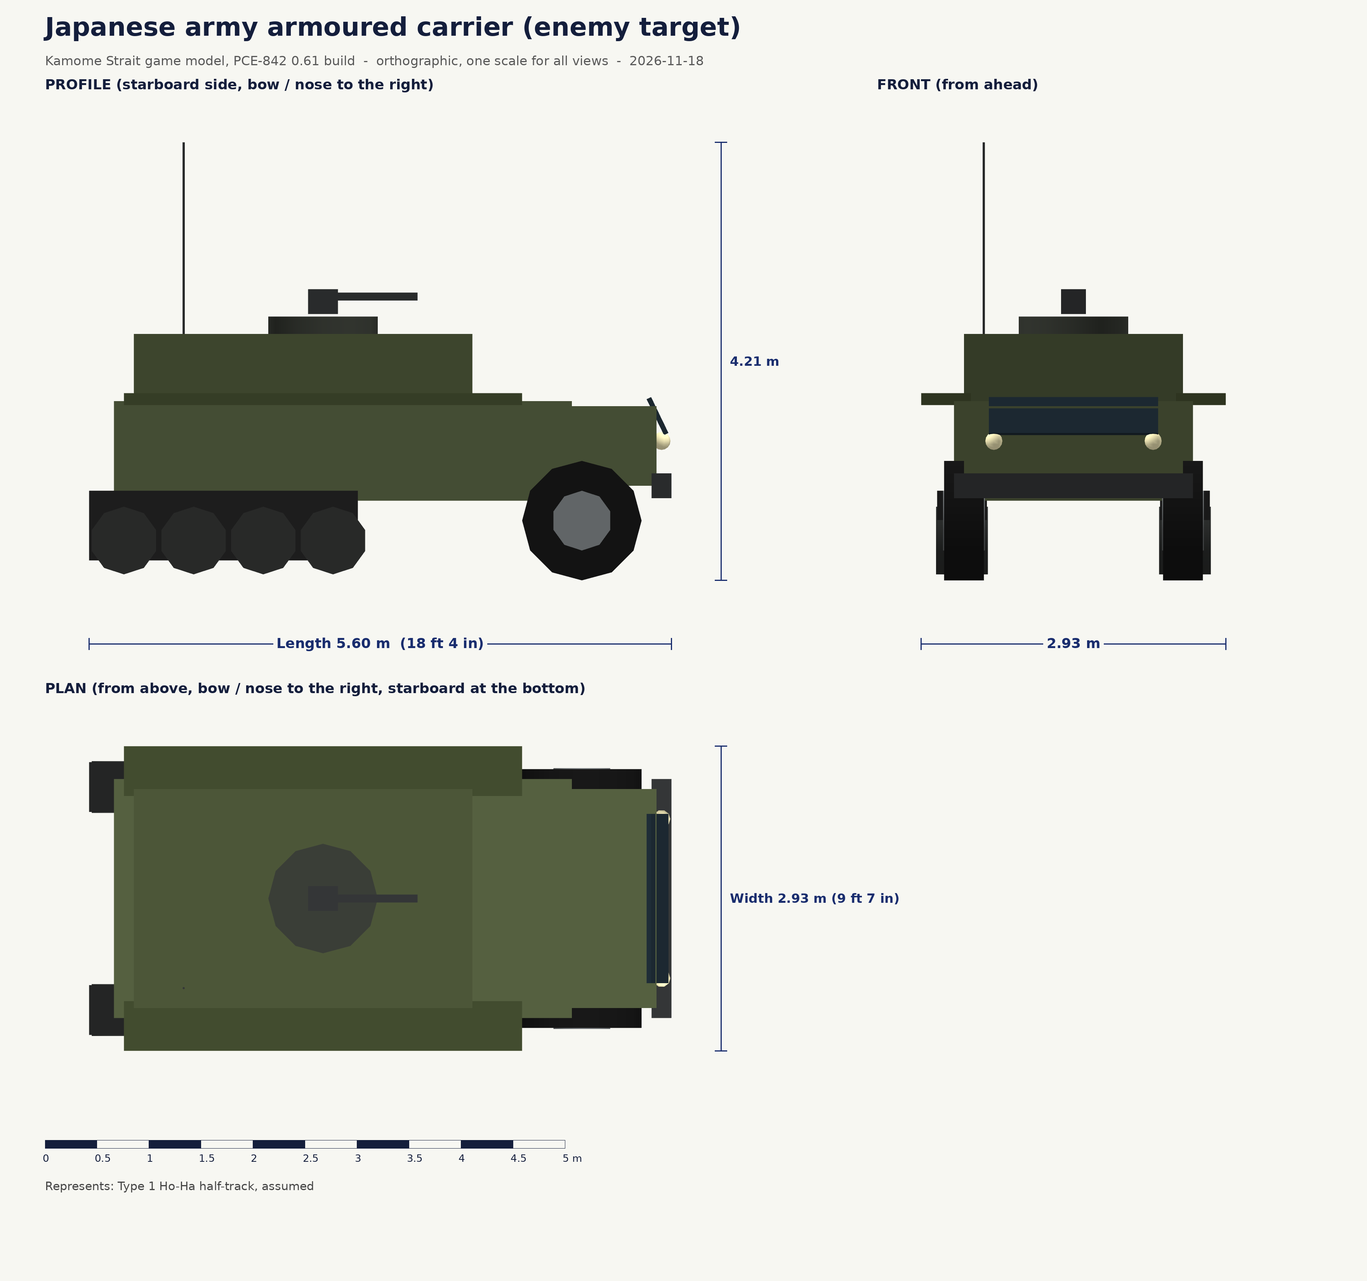
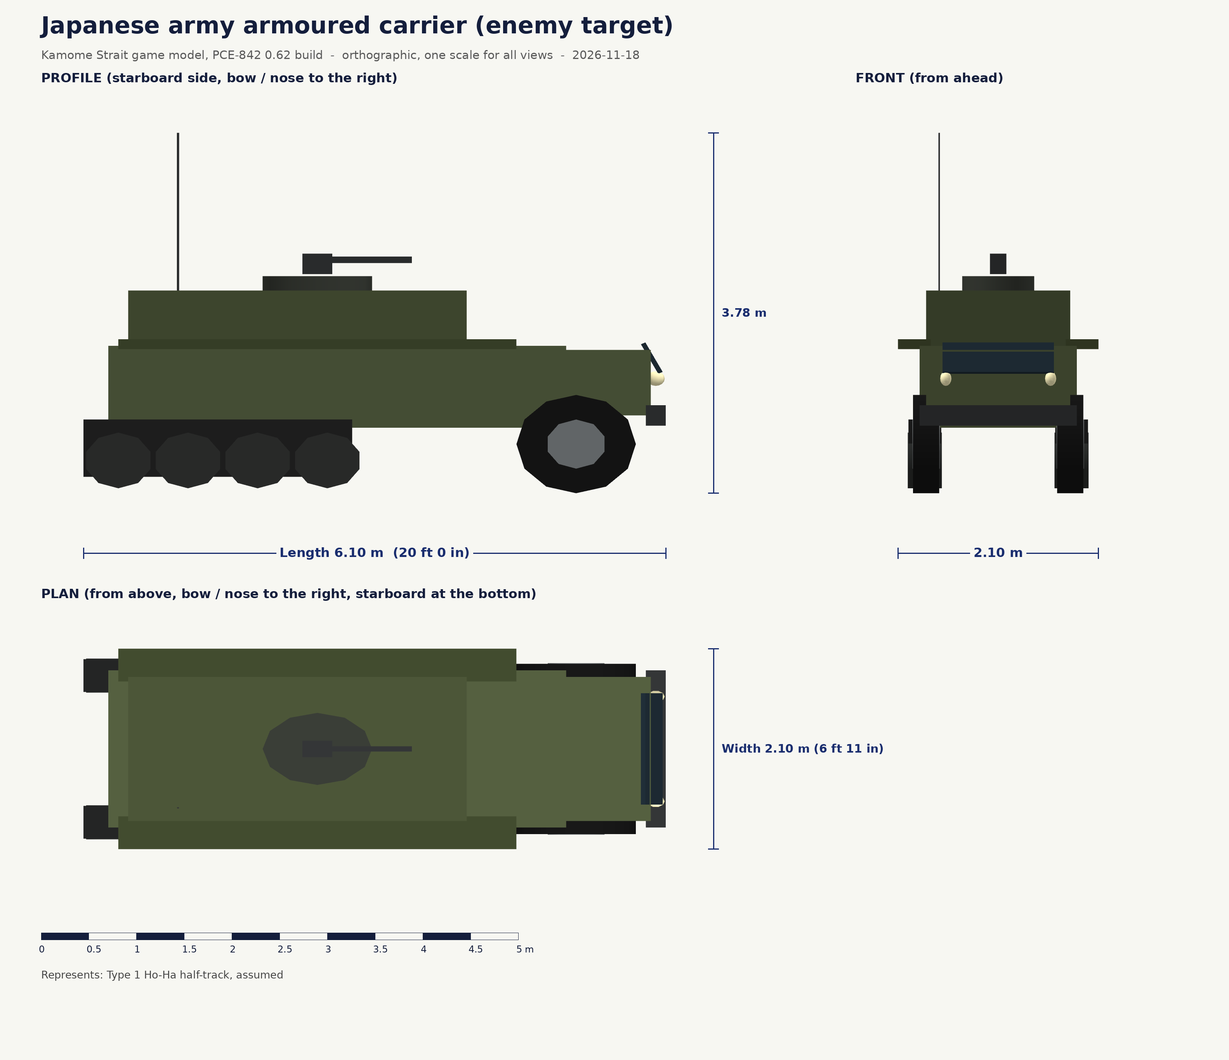
P-51 5.44, PCE-842 0.62: Japanese ships float on their waterline; enemy vehicles at real size (Type 94, Kurogane, Ho-Ha, Ha-Go); blueprints redrawn
Claude-Session: https://claude.ai/code/session_01GqtnZ4hJG1DYCEV5dDsXBs

diff --git a/src/shared/end-of-the-coast-batteries.js b/src/shared/end-of-the-coast-batteries.js
@@ -15,18 +15,20 @@ const SITES = [],
       const g = new GX.Acc().add(P, GX.xf(0, 0, 0, 0)).geometry();
       g.computeBoundingBox();
       const b = g.boundingBox,
-        s1 = b.max.y - b.min.y;
-      g.translate(0, -b.min.y - s1 / 2, 0); /* base at the model's own zero, the mesh origin in the middle (as the other targets) */
+        s1 = b.max.y - b.min.y,
+        k0 = b.min.y; /* read before translate(), which recomputes the box in place */
+      g.translate(0, -k0 - s1 / 2, 0); /* base at the model's own zero, the mesh origin in the middle (as the other targets) */
       g.computeBoundingSphere();
-      return [new THREE.Mesh(g, new THREE.MeshLambertMaterial({ vertexColors: true })), s1];
+      return [new THREE.Mesh(g, new THREE.MeshLambertMaterial({ vertexColors: true })), s1, k0 /* the model's lowest point (a ship: her keel, below her waterline at 0) */];
     },
     target = (P, type, hp, r, u, d, ry, yOff) => {
-      const [m, s1] = asMesh(P),
+      const [m, s1, k0] = asMesh(P),
         [x, z] = FR.w(u, d);
-      m.position.set(x, H(x, z) + s1 / 2 + (yOff || 0), z);
+      /* a ship floats with her own waterline (the model's y = 0) at the sea's design waterline; anything else stands on the ground */
+      m.position.set(x, type === 'ship' ? SEA.WL + k0 + s1 / 2 : H(x, z) + s1 / 2 + (yOff || 0), z);
       m.rotation.y = ry;
       scene.add(m);
-      const e = { m, lit: null, c: m.position, r, hp, hp0: hp, type, dead: false, s1, col: 0x555555, kind: 'st' };
+      const e = { m, lit: null, c: m.position, r, hp, hp0: hp, type, dead: false, s1, k0, col: 0x555555, kind: 'st' };
       T.push(e);
       if (FR === SITE) SITES.push(e); /* the far sites keep their own lists */
       return e;
@@ -182,7 +184,7 @@ const SITES = [],
     scene.add(m);
   }
   const ship = (parts, len, u, d, hp) => target(parts, 'ship', hp, len * 0.3, u, d, SITE.ryS);
-  const hullUp = (P) => P; /* ship models are built with their keel 1.5 m below zero; asMesh puts the lowest point at the waterline */
+  const hullUp = (P) => P; /* ship models are built with their waterline at y = 0 and the keel below it; target() floats them there */
   ship(hullUp(M.freighter('jp')), 95, -17, 188, 150);
   ship(hullUp(M.tanker('jp')), 112, 18, 190, 180);
   ship(hullUp(M.patrol('jn')), 32, -60, 175, 60);
@@ -387,7 +389,7 @@ const SITES = [],
       per = 2 * Ls + 2 * Math.PI * R,
       e = ship(ukuru(), 78, u0, d0, 140),
       y0 = e.m.position.y,
-      oy = 1.6 - e.s1 / 2; /* mesh-local y = model y + oy */
+      oy = -e.k0 - e.s1 / 2; /* mesh-local y = model y + oy */
     const MAT = () => new THREE.MeshLambertMaterial({ vertexColors: true, side: 2 }),
       guns = [];
     /* the same Type 96 25 mm twin mounts as the bases: AA.gun entries that ride on the hull and fire under the Ground Fire option */
@@ -407,7 +409,7 @@ const SITES = [],
       guns.push(g);
     }
     {
-      const wk = shipWakeMesh(1, 1.6 - e.s1 / 2 + 1.65);
+      const wk = shipWakeMesh(1, -e.k0 - e.s1 / 2 + 0.45) /* on the water, just above her waterline */;
       e.m.add(wk);
     }
     const tmp = new V();
@@ -852,7 +854,7 @@ const SITES = [],
     const e = target(ukuru(), 'ship', 140, 78 * 0.3, u0, d0, F.ryS);
     FR = SITE;
     const y0 = e.m.position.y,
-      oy = 1.6 - e.s1 / 2,
+      oy = -e.k0 - e.s1 / 2,
       MATu = () => new THREE.MeshLambertMaterial({ vertexColors: true, side: 2 }),
       guns = [],
       tmp = new V();
@@ -871,7 +873,7 @@ const SITES = [],
       AA.gun.push(g);
       guns.push(g);
     }
-    e.m.add(shipWakeMesh(1, 1.6 - e.s1 / 2 + 1.65));
+    e.m.add(shipWakeMesh(1, -e.k0 - e.s1 / 2 + 0.45) /* on the water, just above her waterline */);
     e.m.matrixAutoUpdate = true;
     let s = Math.random() * per;
     const P = { e, vis: true, track: { u0, u1, d0, R } };
@@ -1124,8 +1126,8 @@ const SITES = [],
       }
     }
     if (!p1) return null; /* no sea route between the two harbours: no ships (never a ship sailing over land) */
-    const [m, s1] = asMesh(parts);
-    m.add(shipWakeMesh(1, -s1 / 2 + 3.25));
+    const [m, s1, k0] = asMesh(parts);
+    m.add(shipWakeMesh(1, -k0 - s1 / 2 + 0.45)); /* on the water, just above her waterline */
     scene.add(m);
     const pts = [p0, p1, ...mid, p2, p3],
       seg = [];
@@ -1135,13 +1137,13 @@ const SITES = [],
       seg.push(l);
       L += l;
     }
-    const c = { m, s1, pts, seg, L, v: 7.5, dock: 150, phase, yaw: FA.ryS, vis: true, len };
+    const c = { m, s1, k0, pts, seg, L, v: 7.5, dock: 150, phase, yaw: FA.ryS, vis: true, len };
     CIV.push(c);
     /* under the Hinomaru, so a target: it sinks where it is hit and stays down until the flight restarts */
-    c.t = { m, lit: null, c: m.position, r: len * 0.3, hp: len * 1.6, hp0: len * 1.6, type: 'ship', dead: false, s1, col: 0x555555, kind: 'civ' };
+    c.t = { m, lit: null, c: m.position, r: len * 0.3, hp: len * 1.6, hp0: len * 1.6, type: 'ship', dead: false, s1, k0, col: 0x555555, kind: 'civ' };
     T.push(c.t);
     m.rotation.y = c.yaw;
-    m.position.set(p0[0], SEA.PAINT + s1 / 2, p0[1]);
+    m.position.set(p0[0], SEA.WL + k0 + s1 / 2, p0[1]); /* her waterline (the model's y = 0) at the sea's */
     return c;
   };
   const updCiv = (c, t, dt) => {
@@ -1188,7 +1190,7 @@ const SITES = [],
       cz = a[1] + dz * k,
       rd = c.ride || (c.ride = RIDE.make(0.43 * c.len, 0.08 * c.len, c.len < 60 ? 6 : 9));
     if (dt > 0) RIDE.step(rd, cx, cz, Math.cos(c.yaw), -Math.sin(c.yaw), dt, 0);
-    c.m.position.set(cx, SEA.PAINT + c.s1 / 2 + rd.hv, cz);
+    c.m.position.set(cx, SEA.WL + c.k0 + c.s1 / 2 + rd.hv, cz);
     c.m.rotation.set(rd.ro, c.yaw, rd.pi, 'YXZ');
     c.m.children[0].visible = moving;
   };

diff --git a/src/shared/detailed-vehicle-models-forward-x-while-building.js b/src/shared/detailed-vehicle-models-forward-x-while-building.js
@@ -319,7 +319,44 @@ const VM = (() => {
     return P;
   };
   const BSET = { warehouse: 1, hq: 1, bunker: 1, hangar: 1, fuel: 1 };
-  const bake = (P, s, isB) => {
+  /* REAL SIZES: the vehicles that stand for a real type are scaled, axis by axis, so their body (without aerials and other thin
+     parts) has that type's width, height and length in metres; a null height keeps the model's own proportion to the length.
+     Checked by tools/blueprint.py (Blueprints/). Truck, supply and tanker: Isuzu Type 94 six-wheeled truck (5.4 x 1.9 x 2.7 m with
+     the canvas tilt); jeep: Kurogane Type 95 (3.6 x 1.52 x 1.68); apc: Type 1 Ho-Ha (6.1 x 2.1 x 2.51); tank: Type 95 Ha-Go
+     (4.38 x 2.06 x 2.13). */
+  const REAL = {
+    truck: [1.9, null, 5.4],
+    supply: [1.9, 2.7, 5.4],
+    tanker: [1.9, null, 5.4],
+    jeep: [1.52, 1.68, 3.6],
+    apc: [2.1, 2.51, 6.1],
+    tank: [2.06, 2.13, 4.38],
+  };
+  /* the scale (in the model's own frame, nose along +x) that brings type t to its real size */
+  const fitS = {};
+  const fitScale = (t) => {
+    if (fitS[t]) return fitS[t];
+    const r = REAL[t],
+      b = new THREE.Box3(),
+      tb = new THREE.Box3();
+    for (const q of defs[t]()) {
+      if (!q.g.boundingBox) q.g.computeBoundingBox();
+      tb.copy(q.g.boundingBox).applyMatrix4(q.m || new THREE.Matrix4());
+      if (Math.max(tb.max.x - tb.min.x, tb.max.z - tb.min.z) < 0.15) continue; /* aerials, flag staffs, thin rails */
+      b.union(tb);
+    }
+    const kl = r[2] / (b.max.x - b.min.x);
+    return (fitS[t] = new THREE.Matrix4().makeScale(kl, r[1] ? r[1] / (b.max.y - b.min.y) : kl, r[0] / (b.max.z - b.min.z)));
+  };
+  const bake = (P, s, isB, t) => {
+    if (REAL[t]) {
+      const g = new GX.Acc().add(P, new THREE.Matrix4().makeRotationY(-Z).multiply(fitScale(t))).geometry();
+      g.computeBoundingBox();
+      const b = g.boundingBox;
+      g.translate(-(b.max.x + b.min.x) / 2, -s[1] / 2 - b.min.y, -(b.max.z + b.min.z) / 2);
+      g.computeBoundingSphere();
+      return g;
+    }
     const g = new GX.Acc().add(P, new THREE.Matrix4().makeRotationY(isB ? 0 : -Z)).geometry();
     if (isB) {
       g.translate(0, -s[1] / 2, 0);
@@ -352,8 +389,10 @@ const VM = (() => {
   return {
     has: (t) => !!defs[t],
     isB: (t) => !!BSET[t],
-    make: (t, s) => cache[t] || (cache[t] = bake(defs[t](), s, !!BSET[t])),
+    make: (t, s) => cache[t] || (cache[t] = bake(defs[t](), s, !!BSET[t], t)),
     parts: (t) => defs[t](),
+    /* the parts at the type's real size (for parked vehicles; nose along +x, wheels on y = 0) */
+    fitParts: (t) => (REAL[t] ? defs[t]().map((q) => ({ ...q, m: new THREE.Matrix4().multiplyMatrices(fitScale(t), q.m || new THREE.Matrix4()) })) : defs[t]()),
     part,
     bx,
     cyl,

diff --git a/src/shared/buildings-convoys-trainers-and-the-mission-menu.js b/src/shared/buildings-convoys-trainers-and-the-mission-menu.js
@@ -3,10 +3,10 @@ Object.assign(SP, {
   warehouse: { s: [24, 8, 14], hp: 90, c: 0x8d9296, roof: 0x5b6065 },
   hq: { s: [16, 10, 12], hp: 140, c: 0xa89b84, roof: 0x6b4a3a },
   bunker: { s: [14, 4, 14], hp: 200, c: 0x6d7266, roof: 0x555a4c },
-  jeep: { s: [1.9, 1.6, 3.6], hp: 5, c: 0x6b7050, cab: 1 },
-  supply: { s: [2.6, 2.8, 6.5], hp: 8, c: 0x5a6840, cab: 1 },
-  tanker: { s: [2.8, 3, 7], hp: 10, c: 0x9a9ea2, cab: 1 },
-  apc: { s: [2.8, 2.4, 5.6], hp: 18, c: 0x4a5438 },
+  jeep: { s: [1.52, 1.68, 3.6], hp: 5, c: 0x6b7050, cab: 1 } /* vehicle boxes at the real sizes (VM REAL) */,
+  supply: { s: [1.9, 2.7, 5.4], hp: 8, c: 0x5a6840, cab: 1 },
+  tanker: { s: [1.9, 3, 5.4], hp: 10, c: 0x9a9ea2, cab: 1 },
+  apc: { s: [2.1, 2.51, 6.1], hp: 18, c: 0x4a5438 },
 });
 const BLD = [];
 {

diff --git a/src/pce/version-major-minor-the-user-decides-when-the-ma.js b/src/pce/version-major-minor-the-user-decides-when-the-ma.js
@@ -1,5 +1,5 @@
 /* VERSION: major.minor. The user decides when the major number changes; the minor number goes up with every change. */
-const VERSION = '0.61';
+const VERSION = '0.62';
 document.querySelectorAll('.verTag').forEach((e) => (e.textContent = 'Version ' + VERSION));
 /* GAME: which game this build is: its name in messages and the prefix of its saved settings (the only place either is written) */
 const GAME = { id: 'pce', name: 'PCE-842', key: 'pce842' };

diff --git a/src/p51/version-major-minor-the-user-decides-when-the-ma.js b/src/p51/version-major-minor-the-user-decides-when-the-ma.js
@@ -1,5 +1,5 @@
 /* VERSION: major.minor. The user decides when the major number changes; the minor number goes up with every change. */
-const VERSION = '5.43';
+const VERSION = '5.44';
 document.querySelectorAll('.verTag').forEach((e) => (e.textContent = 'Version ' + VERSION));
 /* GAME: which game this build is: its name in messages and the prefix of its saved settings (the only place either is written) */
 const GAME = { id: 'p51', name: 'P-51', key: 'p51' };

diff --git a/src/shared/firing.js b/src/shared/firing.js
@@ -206,7 +206,7 @@ function resetWeapons() {
     t.dead = false;
     t.hp = t.hp0;
     t.m.scale.y = 1;
-    t.m.position.y = H(t.c.x, t.c.z) + t.s1 / 2;
+    t.m.position.y = t.type === 'ship' && t.k0 !== undefined ? SEA.WL + t.k0 + t.s1 / 2 : H(t.c.x, t.c.z) + t.s1 / 2; /* a ship back on her waterline */
     if (t.type === 'ship') t.m.rotation.z = 0;
     t.m.traverse((o) => {
       if (o.userData.c0 !== undefined) o.material.color.set(o.userData.c0);

diff --git a/src/shared/compound-dressing-for-the-depot-and-the-base-per.js b/src/shared/compound-dressing-for-the-depot-and-the-base-per.js
@@ -115,7 +115,7 @@
       for (let j = 0; j < 4; j++) P.push(part(cyl(0.3, 0.3, 0.88, 10), cs[(i + j) % 4], i * 0.72, 0.44, j * 0.72));
     put(P, x, z, yaw, 1);
   };
-  const veh = (t, x, z, yaw, k) => put(VM.parts(t), x, z, yaw, k);
+  const veh = (t, x, z, yaw) => put(VM.fitParts(t), x, z, yaw, 1); /* parked vehicles at their real sizes (VM REAL) */
   const lay = (cx, cz, o) => {
     fence(cx, cz, o.f[0], o.f[1], o.f[2], o.f[3]);
     [

diff --git a/src/shared/ground-targets.js b/src/shared/ground-targets.js
@@ -1,8 +1,8 @@
 /* ground targets */
 const T = [],
   SP = {
-    truck: { s: [2.6, 2.6, 6.5], hp: 8, c: 0x5a6840 },
-    tank: { s: [3.4, 2.2, 6.8], hp: 16, c: 0x4d5a3a },
+    truck: { s: [1.9, 2.6, 5.4], hp: 8, c: 0x5a6840 } /* boxes at the real sizes (VM REAL) */,
+    tank: { s: [2.06, 2.13, 4.38], hp: 16, c: 0x4d5a3a },
     fuel: { s: [9, 9, 9], hp: 25, c: 0xb8bcc0, cyl: 1 },
     hangar: { s: [18, 8, 30], hp: 60, c: 0x7d8088 },
   };

diff --git a/Blueprints/README.md b/Blueprints/README.md
@@ -18,7 +18,7 @@ The PCE-842 has her own, more detailed drawings and frame-by-frame check against
 | Target sled (towed by PT-108) | Gunnery target sled (generic) | 11.71 x 3.55 x 5.43 | no reference yet | `Target_sled_blueprint.png`, `Target_sled_measurements.md` |
 | Battle-practice target raft | Battle-practice target raft with screen (generic) | 12.00 x 5.00 x 8.40 | no reference yet | `Target_raft_blueprint.png`, `Target_raft_measurements.md` |
 | Towed target sleeve | Towed aerial target sleeve (generic) | 9.00 x 1.40 x 1.40 | no reference yet | `Target_sleeve_blueprint.png`, `Target_sleeve_measurements.md` |
-| Ukuru-class kaibokan (Japanese coastal escort) | Ukuru-class kaibokan (escort ship) | 79.28 x 11.84 x 22.43 | **check** | `Ukuru-class_blueprint.png`, `Ukuru-class_measurements.md` |
+| Ukuru-class kaibokan (Japanese coastal escort) | Ukuru-class kaibokan (escort ship) | 79.26 x 11.84 x 22.33 | **check** | `Ukuru-class_blueprint.png`, `Ukuru-class_measurements.md` |
 | Japanese freighter | Japanese cargo ship (generic, 95 m) | 94.76 x 14.20 x 22.45 | no reference yet | `Japanese_freighter_blueprint.png`, `Japanese_freighter_measurements.md` |
 | Japanese tanker | Japanese tanker (generic, 112 m) | 111.55 x 17.20 x 20.90 | no reference yet | `Japanese_tanker_blueprint.png`, `Japanese_tanker_measurements.md` |
 | Japanese patrol boat | Japanese patrol boat (generic, 32 m) | 32.04 x 6.00 x 10.80 | no reference yet | `Japanese_patrol_boat_blueprint.png`, `Japanese_patrol_boat_measurements.md` |
@@ -27,12 +27,12 @@ The PCE-842 has her own, more detailed drawings and frame-by-frame check against
 | 12 cm/45 3rd Year Type gun in its coast emplacement | 12 cm/45 3rd Year Type naval gun on a coast-defence pedestal | 9.20 x 9.20 x 3.47 | close | `12cm-45_coast_gun_blueprint.png`, `12cm-45_coast_gun_measurements.md` |
 | Type 96 25 mm twin AA gun in its emplacement | Type 96 25 mm twin mount (Navy, on land) in a sandbagged pit | 9.80 x 9.80 x 3.14 | no reference yet | `Type96_25mm_twin_blueprint.png`, `Type96_25mm_twin_measurements.md` |
 | 150 cm searchlight in its emplacement | 150 cm searchlight (Type 96 class) | 7.00 x 7.00 x 3.20 | no reference yet | `150cm_searchlight_blueprint.png`, `150cm_searchlight_measurements.md` |
-| Japanese army cargo truck (enemy target) | Isuzu Type 94 six-wheeled truck (cargo truck), assumed | 6.50 x 2.21 x 3.07 | **check** | `Japanese_cargo_truck_blueprint.png`, `Japanese_cargo_truck_measurements.md` |
-| Japanese army supply truck, covered (enemy target) | Isuzu Type 94 six-wheeled truck (covered supply truck), assumed | 6.50 x 2.21 x 3.07 | **check** | `Japanese_supply_truck_blueprint.png`, `Japanese_supply_truck_measurements.md` |
-| Japanese army tanker truck (enemy target) | Isuzu Type 94 six-wheeled truck (tanker truck), assumed | 7.00 x 2.25 x 2.82 | **check** | `Japanese_tanker_truck_blueprint.png`, `Japanese_tanker_truck_measurements.md` |
-| Japanese army light car (enemy target) | Kurogane Type 95 scout car, assumed | 3.60 x 1.86 x 2.82 | **check** | `Japanese_scout_car_blueprint.png`, `Japanese_scout_car_measurements.md` |
-| Japanese army armoured carrier (enemy target) | Type 1 Ho-Ha half-track, assumed | 5.60 x 2.93 x 4.21 | **check** | `Japanese_halftrack_blueprint.png`, `Japanese_halftrack_measurements.md` |
-| Japanese army tank (enemy target) | Type 95 Ha-Go light tank, assumed | 6.80 x 3.82 x 3.72 | **check** | `Japanese_tank_blueprint.png`, `Japanese_tank_measurements.md` |
+| Japanese army cargo truck (enemy target) | Isuzu Type 94 six-wheeled truck (cargo truck), assumed | 5.40 x 1.90 x 2.55 | close | `Japanese_cargo_truck_blueprint.png`, `Japanese_cargo_truck_measurements.md` |
+| Japanese army supply truck, covered (enemy target) | Isuzu Type 94 six-wheeled truck (covered supply truck), assumed | 5.40 x 1.90 x 2.70 | match | `Japanese_supply_truck_blueprint.png`, `Japanese_supply_truck_measurements.md` |
+| Japanese army tanker truck (enemy target) | Isuzu Type 94 six-wheeled truck (tanker truck), assumed | 5.40 x 1.90 x 2.17 | **check** | `Japanese_tanker_truck_blueprint.png`, `Japanese_tanker_truck_measurements.md` |
+| Japanese army light car (enemy target) | Kurogane Type 95 scout car, assumed | 3.60 x 1.52 x 2.27 | match | `Japanese_scout_car_blueprint.png`, `Japanese_scout_car_measurements.md` |
+| Japanese army armoured carrier (enemy target) | Type 1 Ho-Ha half-track, assumed | 6.10 x 2.10 x 3.78 | match | `Japanese_halftrack_blueprint.png`, `Japanese_halftrack_measurements.md` |
+| Japanese army tank (enemy target) | Type 95 Ha-Go light tank, assumed | 4.38 x 2.06 x 3.57 | match | `Japanese_tank_blueprint.png`, `Japanese_tank_measurements.md` |
 | US fuel bowser (home airfield) | US 2½-ton 6x6 fuel truck (GMC CCKW class), assumed | 7.28 x 2.55 x 3.20 | **check** | `US_fuel_truck_blueprint.png`, `US_fuel_truck_measurements.md` |
 | US cargo truck (home airfield) | GMC CCKW 353 2½-ton 6x6 cargo truck, assumed | 7.90 x 2.55 x 3.85 | **check** | `US_cargo_truck_blueprint.png`, `US_cargo_truck_measurements.md` |
 | US jeep (home airfield) | Willys MB / Ford GPW jeep | 3.70 x 1.92 x 1.77 | **check** | `US_jeep_blueprint.png`, `US_jeep_measurements.md` |

diff --git a/Blueprints/Japanese_tanker_truck_measurements.md b/Blueprints/Japanese_tanker_truck_measurements.md
@@ -1,19 +1,21 @@
 # Japanese army tanker truck (enemy target): game model measured against the references
 
-Measured from the PCE-842 0.61 build by `tools/blueprint.py` (2026-11-18). Model box: 7.00 m long, 2.25 m wide, 2.82 m high (solid parts only, as drawn on the blueprint).
+Measured from the PCE-842 0.62 build by `tools/blueprint.py` (2026-11-18). Model box: 5.40 m long, 1.90 m wide, 2.17 m high (solid parts only, as drawn on the blueprint).
 
 **Represents:** Isuzu Type 94 six-wheeled truck (tanker truck), assumed
 
 | Item | Reference | Source | Model | Difference | Result |
 |---|---|---|---|---|---|
-| Length | 5.40 m (17 ft 9 in) | 5.4 x 1.9 x 2.7 m (truck-encyclopedia.com, Isuzu Type 94) | 7.00 m | +1.60 m (30%) | **check** |
-| Width | 1.90 m (6 ft 3 in) | 5.4 x 1.9 x 2.7 m (truck-encyclopedia.com, Isuzu Type 94) | 2.25 m | +0.35 m (19%) | **check** |
-| Height | 2.70 m (8 ft 10 in) | 5.4 x 1.9 x 2.7 m (truck-encyclopedia.com, Isuzu Type 94) | 2.82 m | +0.12 m (4%) | close |
+| Length | 5.40 m (17 ft 9 in) | 5.4 x 1.9 x 2.7 m (truck-encyclopedia.com, Isuzu Type 94) | 5.40 m | +0.00 m (0%) | match |
+| Width | 1.90 m (6 ft 3 in) | 5.4 x 1.9 x 2.7 m (truck-encyclopedia.com, Isuzu Type 94) | 1.90 m | -0.00 m (0%) | match |
+| Height | 2.70 m (8 ft 10 in) | 5.4 x 1.9 x 2.7 m (truck-encyclopedia.com, Isuzu Type 94) | 2.17 m | -0.53 m (20%) | **check** |
 
 Results: match within 3%, close within 8%, **check** beyond that. The box takes in everything drawn: guns, aerials, flags, rigging and figures. Hull-only or body-only sizes can be smaller, so check a **check** result against the drawing before rebuilding anything.
 
 ## Notes
 
-- Enemy vehicles are fitted to their target's box in the game, so each one is scaled to that box rather than built to its own drawing.
+- Built to the real type's size in the game (VM REAL in the vehicle models): the body, without aerials, flag staffs and other thin parts, is scaled to the reference length, width and height.
+- Height is measured on the body; the drawing's overall height also includes the aerial or staff where the model has one.
+- The reference height (2.7 m) is with the canvas tilt; a model without a tilt keeps its own proportions, so it is lower.
 
 Blueprint: `Japanese_tanker_truck_blueprint.png`.

diff --git a/Blueprints/Japanese_cargo_truck_measurements.md b/Blueprints/Japanese_cargo_truck_measurements.md
@@ -1,19 +1,21 @@
 # Japanese army cargo truck (enemy target): game model measured against the references
 
-Measured from the PCE-842 0.61 build by `tools/blueprint.py` (2026-11-18). Model box: 6.50 m long, 2.21 m wide, 3.07 m high (solid parts only, as drawn on the blueprint).
+Measured from the PCE-842 0.62 build by `tools/blueprint.py` (2026-11-18). Model box: 5.40 m long, 1.90 m wide, 2.55 m high (solid parts only, as drawn on the blueprint).
 
 **Represents:** Isuzu Type 94 six-wheeled truck (cargo truck), assumed
 
 | Item | Reference | Source | Model | Difference | Result |
 |---|---|---|---|---|---|
-| Length | 5.40 m (17 ft 9 in) | 5.4 x 1.9 x 2.7 m (truck-encyclopedia.com, Isuzu Type 94) | 6.50 m | +1.10 m (20%) | **check** |
-| Width | 1.90 m (6 ft 3 in) | 5.4 x 1.9 x 2.7 m (truck-encyclopedia.com, Isuzu Type 94) | 2.21 m | +0.31 m (16%) | **check** |
-| Height | 2.70 m (8 ft 10 in) | 5.4 x 1.9 x 2.7 m (truck-encyclopedia.com, Isuzu Type 94) | 3.07 m | +0.37 m (14%) | **check** |
+| Length | 5.40 m (17 ft 9 in) | 5.4 x 1.9 x 2.7 m (truck-encyclopedia.com, Isuzu Type 94) | 5.40 m | +0.00 m (0%) | match |
+| Width | 1.90 m (6 ft 3 in) | 5.4 x 1.9 x 2.7 m (truck-encyclopedia.com, Isuzu Type 94) | 1.90 m | -0.00 m (0%) | match |
+| Height | 2.70 m (8 ft 10 in) | 5.4 x 1.9 x 2.7 m (truck-encyclopedia.com, Isuzu Type 94) | 2.55 m | -0.15 m (6%) | close |
 
 Results: match within 3%, close within 8%, **check** beyond that. The box takes in everything drawn: guns, aerials, flags, rigging and figures. Hull-only or body-only sizes can be smaller, so check a **check** result against the drawing before rebuilding anything.
 
 ## Notes
 
-- Enemy vehicles are fitted to their target's box in the game, so each one is scaled to that box rather than built to its own drawing.
+- Built to the real type's size in the game (VM REAL in the vehicle models): the body, without aerials, flag staffs and other thin parts, is scaled to the reference length, width and height.
+- Height is measured on the body; the drawing's overall height also includes the aerial or staff where the model has one.
+- The reference height (2.7 m) is with the canvas tilt; a model without a tilt keeps its own proportions, so it is lower.
 
 Blueprint: `Japanese_cargo_truck_blueprint.png`.

diff --git a/Blueprints/Japanese_supply_truck_measurements.md b/Blueprints/Japanese_supply_truck_measurements.md
@@ -1,19 +1,20 @@
 # Japanese army supply truck, covered (enemy target): game model measured against the references
 
-Measured from the PCE-842 0.61 build by `tools/blueprint.py` (2026-11-18). Model box: 6.50 m long, 2.21 m wide, 3.07 m high (solid parts only, as drawn on the blueprint).
+Measured from the PCE-842 0.62 build by `tools/blueprint.py` (2026-11-18). Model box: 5.40 m long, 1.90 m wide, 2.70 m high (solid parts only, as drawn on the blueprint).
 
 **Represents:** Isuzu Type 94 six-wheeled truck (covered supply truck), assumed
 
 | Item | Reference | Source | Model | Difference | Result |
 |---|---|---|---|---|---|
-| Length | 5.40 m (17 ft 9 in) | 5.4 x 1.9 x 2.7 m (truck-encyclopedia.com, Isuzu Type 94) | 6.50 m | +1.10 m (20%) | **check** |
-| Width | 1.90 m (6 ft 3 in) | 5.4 x 1.9 x 2.7 m (truck-encyclopedia.com, Isuzu Type 94) | 2.21 m | +0.31 m (16%) | **check** |
-| Height | 2.70 m (8 ft 10 in) | 5.4 x 1.9 x 2.7 m (truck-encyclopedia.com, Isuzu Type 94) | 3.07 m | +0.37 m (14%) | **check** |
+| Length | 5.40 m (17 ft 9 in) | 5.4 x 1.9 x 2.7 m (truck-encyclopedia.com, Isuzu Type 94) | 5.40 m | +0.00 m (0%) | match |
+| Width | 1.90 m (6 ft 3 in) | 5.4 x 1.9 x 2.7 m (truck-encyclopedia.com, Isuzu Type 94) | 1.90 m | -0.00 m (0%) | match |
+| Height | 2.70 m (8 ft 10 in) | 5.4 x 1.9 x 2.7 m (truck-encyclopedia.com, Isuzu Type 94) | 2.70 m | +0.00 m (0%) | match |
 
 Results: match within 3%, close within 8%, **check** beyond that. The box takes in everything drawn: guns, aerials, flags, rigging and figures. Hull-only or body-only sizes can be smaller, so check a **check** result against the drawing before rebuilding anything.
 
 ## Notes
 
-- Enemy vehicles are fitted to their target's box in the game, so each one is scaled to that box rather than built to its own drawing.
+- Built to the real type's size in the game (VM REAL in the vehicle models): the body, without aerials, flag staffs and other thin parts, is scaled to the reference length, width and height.
+- Height is measured on the body; the drawing's overall height also includes the aerial or staff where the model has one.
 
 Blueprint: `Japanese_supply_truck_blueprint.png`.
